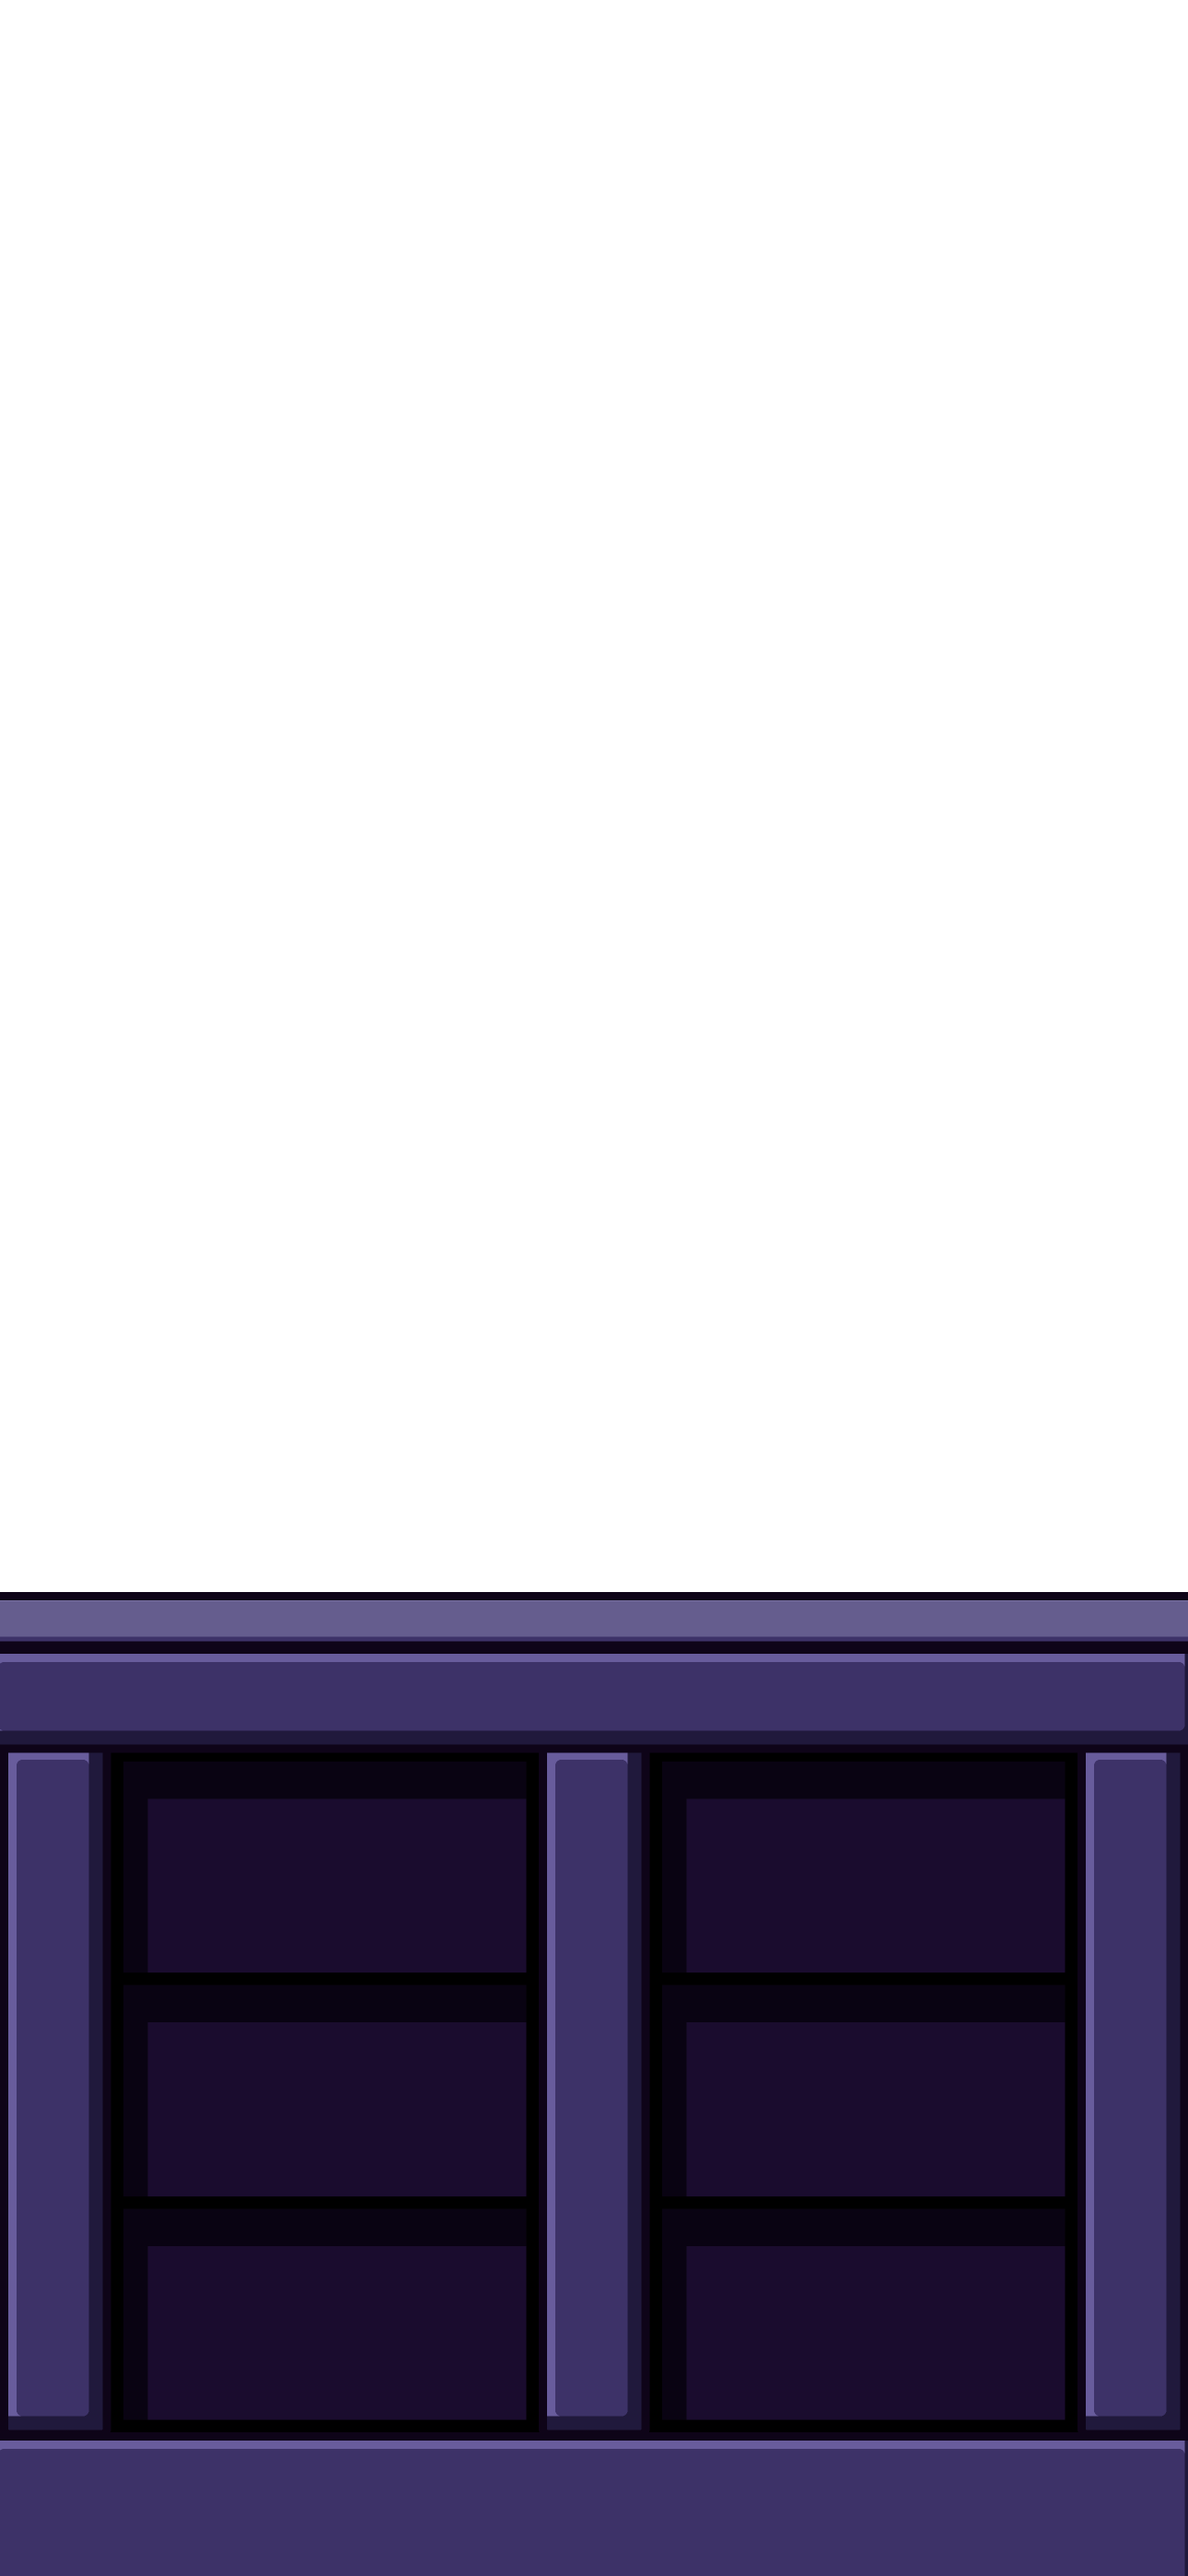
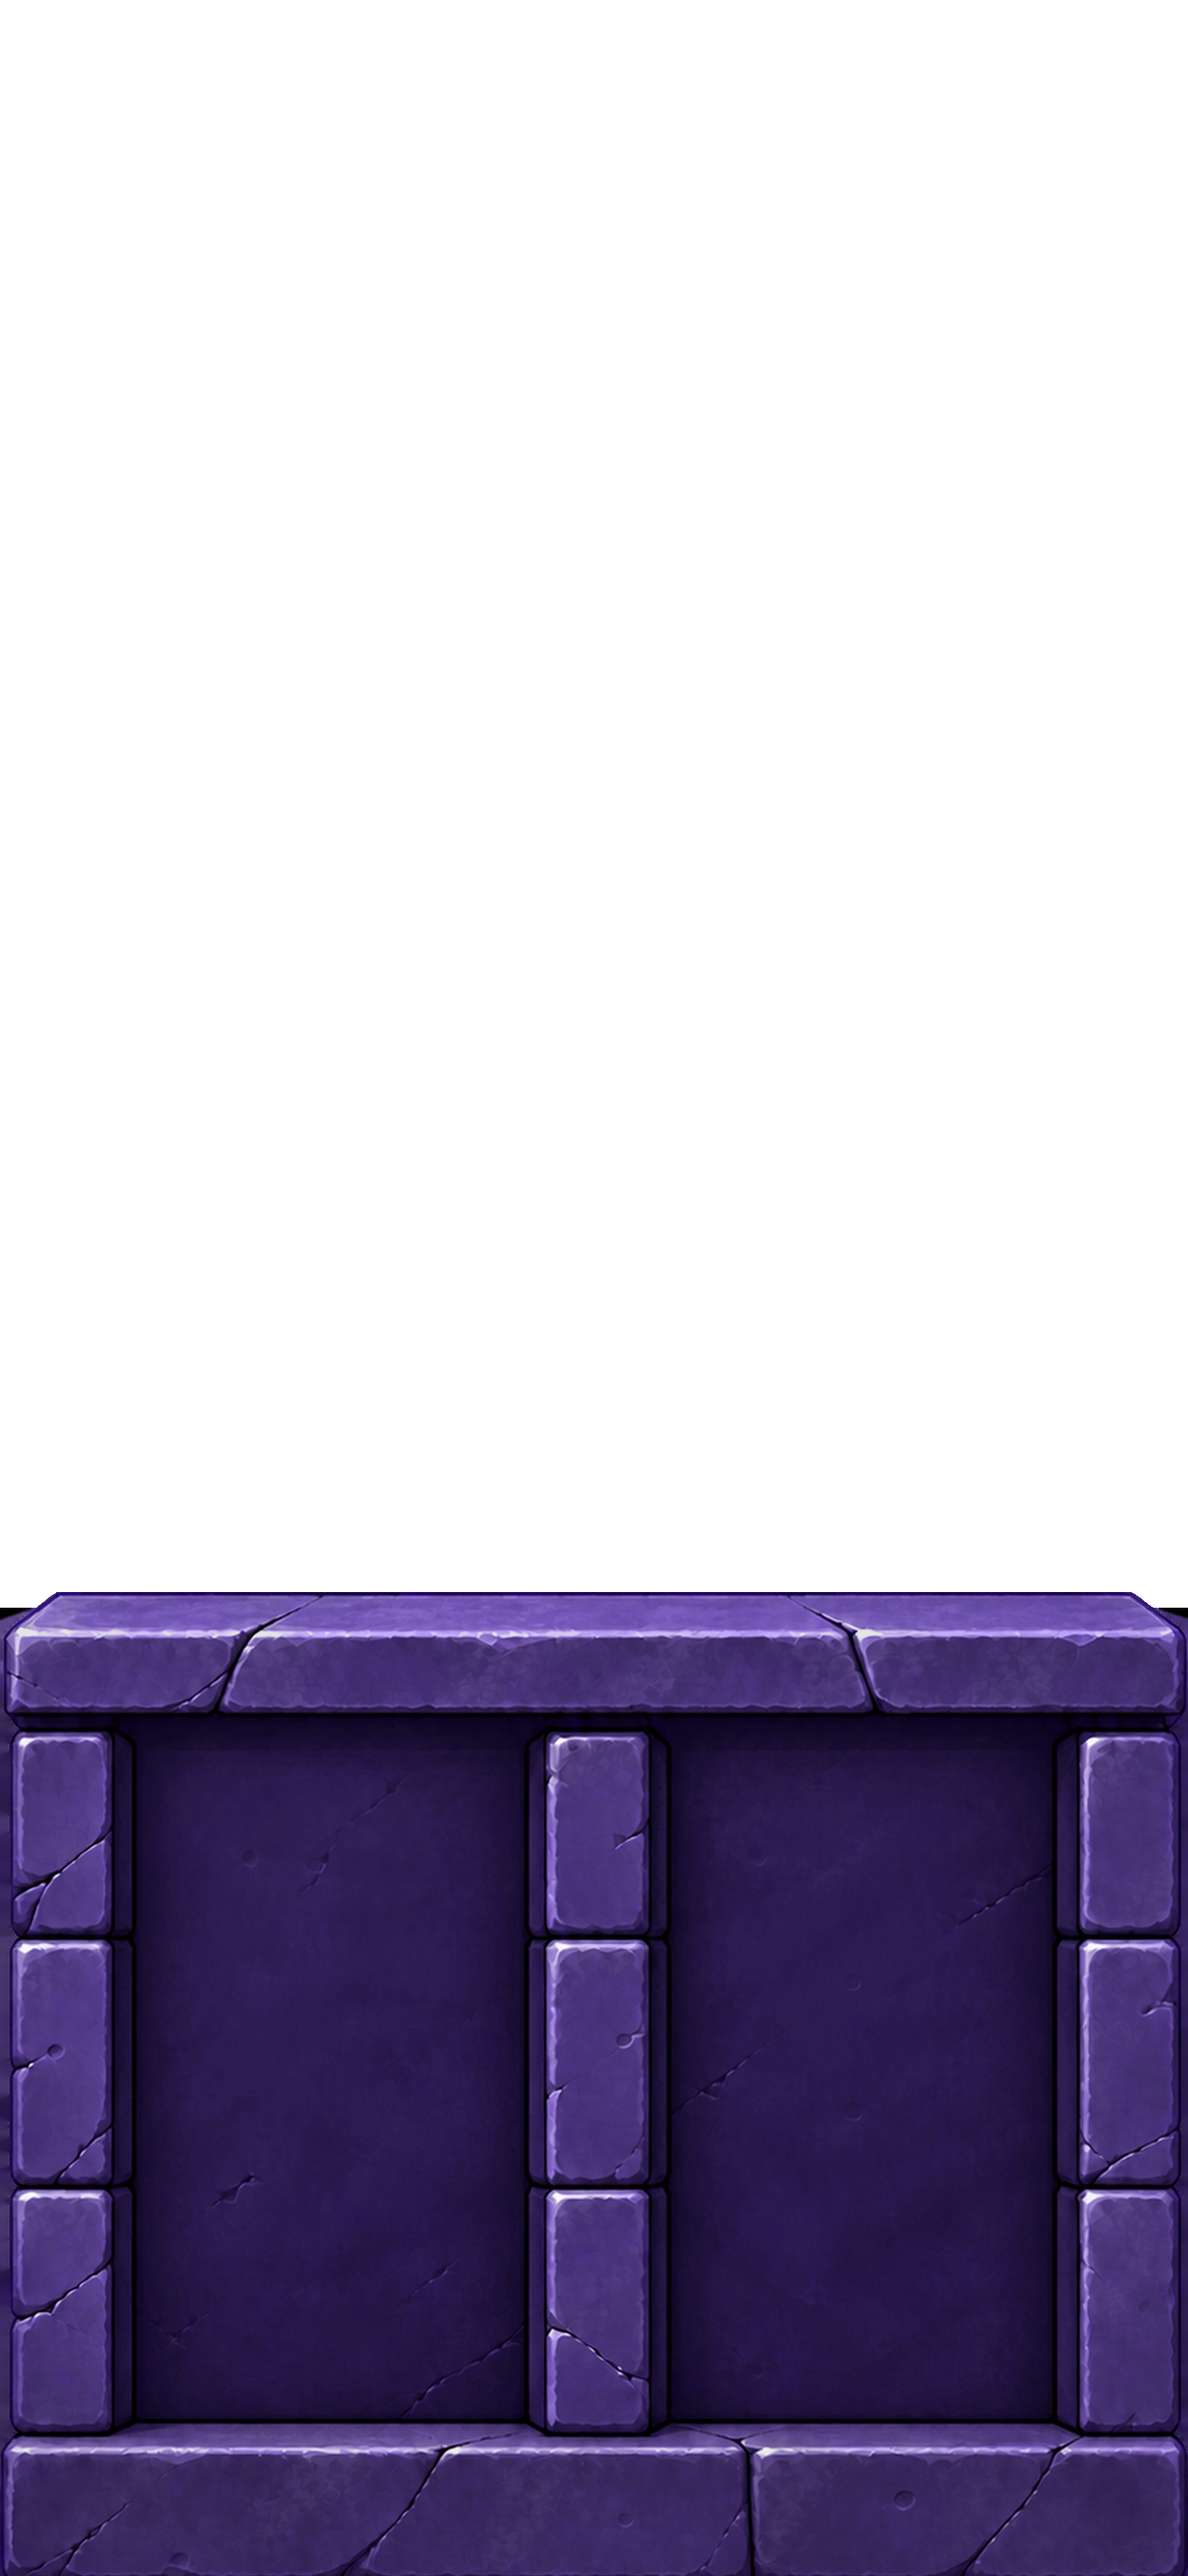
Daily castle: Hunt-colour re-grade of castle, wall and tunnel; gold flash art; cap and wall-foot constants
- castle_cartoon.png, answerwall_framed.png and tunnel.png re-graded to
  the Hunt's colours (same size, same alpha); castle_cartoon_gold_flash.png
  replaced.
- DAILY_CASTLE_CAPS and DAILY_CAP_CENTRES moved to the new tower caps, so
  the gold-hit blooms sit on them.
- DAILY_ANSWER_WALL_FOOT is #36265D, the mean colour of the re-graded
  wall's bottom 16 rows; its comment says it is measured by script.
- DAILY_WALL_FRIEZE is the wall cap's front face, rows 1778-1858, so the
  round markers sit on it.

diff --git a/app/ui/dailyCastleScene.ts b/app/ui/dailyCastleScene.ts
@@ -231,10 +231,11 @@ export const DAILY_ANSWER_PANELS: DailyCastleRect[] = [0, 1].map((i) => {
 
 /**
  * Mean colour of answerwall_framed.png's bottom 16 rows (the sill's face),
- * printed by build_daily_answer_wall.py; rerun and copy it if the wall changes. When the scene has to rise to keep the blocks clear
- * of the action label, the strip left under the wall is filled with it.
+ * measured by script; re-measure it whenever that PNG changes. When the scene
+ * has to rise to keep the blocks clear of the action label, the strip left
+ * under the wall is filled with it.
  */
-export const DAILY_ANSWER_WALL_FOOT = '#3D3268';
+export const DAILY_ANSWER_WALL_FOOT = '#36265D';
 
 /**
  * Floor coins (Pete, 2026-09-26): one per solved round on the courtyard
@@ -279,15 +280,15 @@ export function resolveDailyGoldCoin(): DailyCastleRect {
 }
 
 /**
- * The frieze: answerwall_framed.png's dark band between the capstone and the
- * brick panels, colour-measured at y 1804–1877 px (the capstone's highlight
- * ends above it, the panels' shadow line starts below it).
+ * The frieze: the wall cap's front face on answerwall_framed.png, between the
+ * cap's lit lip above and the dark line below, measured at rows 1778–1858 px
+ * of the current wall.
  */
 export const DAILY_WALL_FRIEZE: DailyCastleRect = {
   x: 0,
-  y: 1804 / 3,
+  y: 1778 / 3,
   width: DAILY_CASTLE_CANVAS.width,
-  height: (1878 - 1804) / 3,
+  height: (1858 - 1778) / 3,
 };
 
 /**
@@ -533,12 +534,12 @@ export const DAILY_CASTLE_FLIGHT_HANDOFF =
  * middle is at about y 230 (left) and 225 (right).
  */
 export const DAILY_CASTLE_CAPS: readonly DailyCastleRect[] = [
-  { x: 0, y: 85 / 3, width: 192 / 3, height: 279 / 3 },
-  { x: 1113 / 3, y: 77 / 3, width: 177 / 3, height: 293 / 3 },
+  { x: 0, y: 239 / 3, width: 212 / 3, height: 138 / 3 },
+  { x: 1078 / 3, y: 239 / 3, width: 212 / 3, height: 138 / 3 },
 ];
 const DAILY_CAP_CENTRES = [
-  { x: 33 / 3, y: 230 / 3 },
-  { x: 1280 / 3, y: 225 / 3 },
+  { x: 106 / 3, y: 307 / 3 },
+  { x: 1183 / 3, y: 307 / 3 },
 ] as const;
 /** The bloom behind each cap (coin_glow.png), well past the cap's silhouette. */
 export const DAILY_CAP_GLOW_SIZE = { width: 216, height: 180 } as const;
